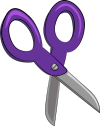
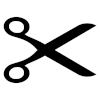
change scissors image

diff --git a/style.css b/style.css
@@ -64,12 +64,12 @@ color:fuchsia
 
 #scissors {
     background-image: url("scissors.png");
-    background-size: cover;
+    background-size:cover;
     width: 80%;
     height: 70%;
     font-size: 5vw;
     border-radius: 50%;
-    color: orange;
+    color: blue;
 }
 #rock {
     background-image: url("rock.png");

diff --git a/index.html b/index.html
@@ -10,7 +10,7 @@
 </head>
 <body>
 
-<h1 class="title">Let's Play Rock, Paper, Scissors!</h1>
+<h1 class="title"><span class="head">Let's Play Rock, Paper, Scissors!</span></h1>
 
 <div id="play">
 <h2 class="comment"><span class="head">Make a selection!</span></h2>
